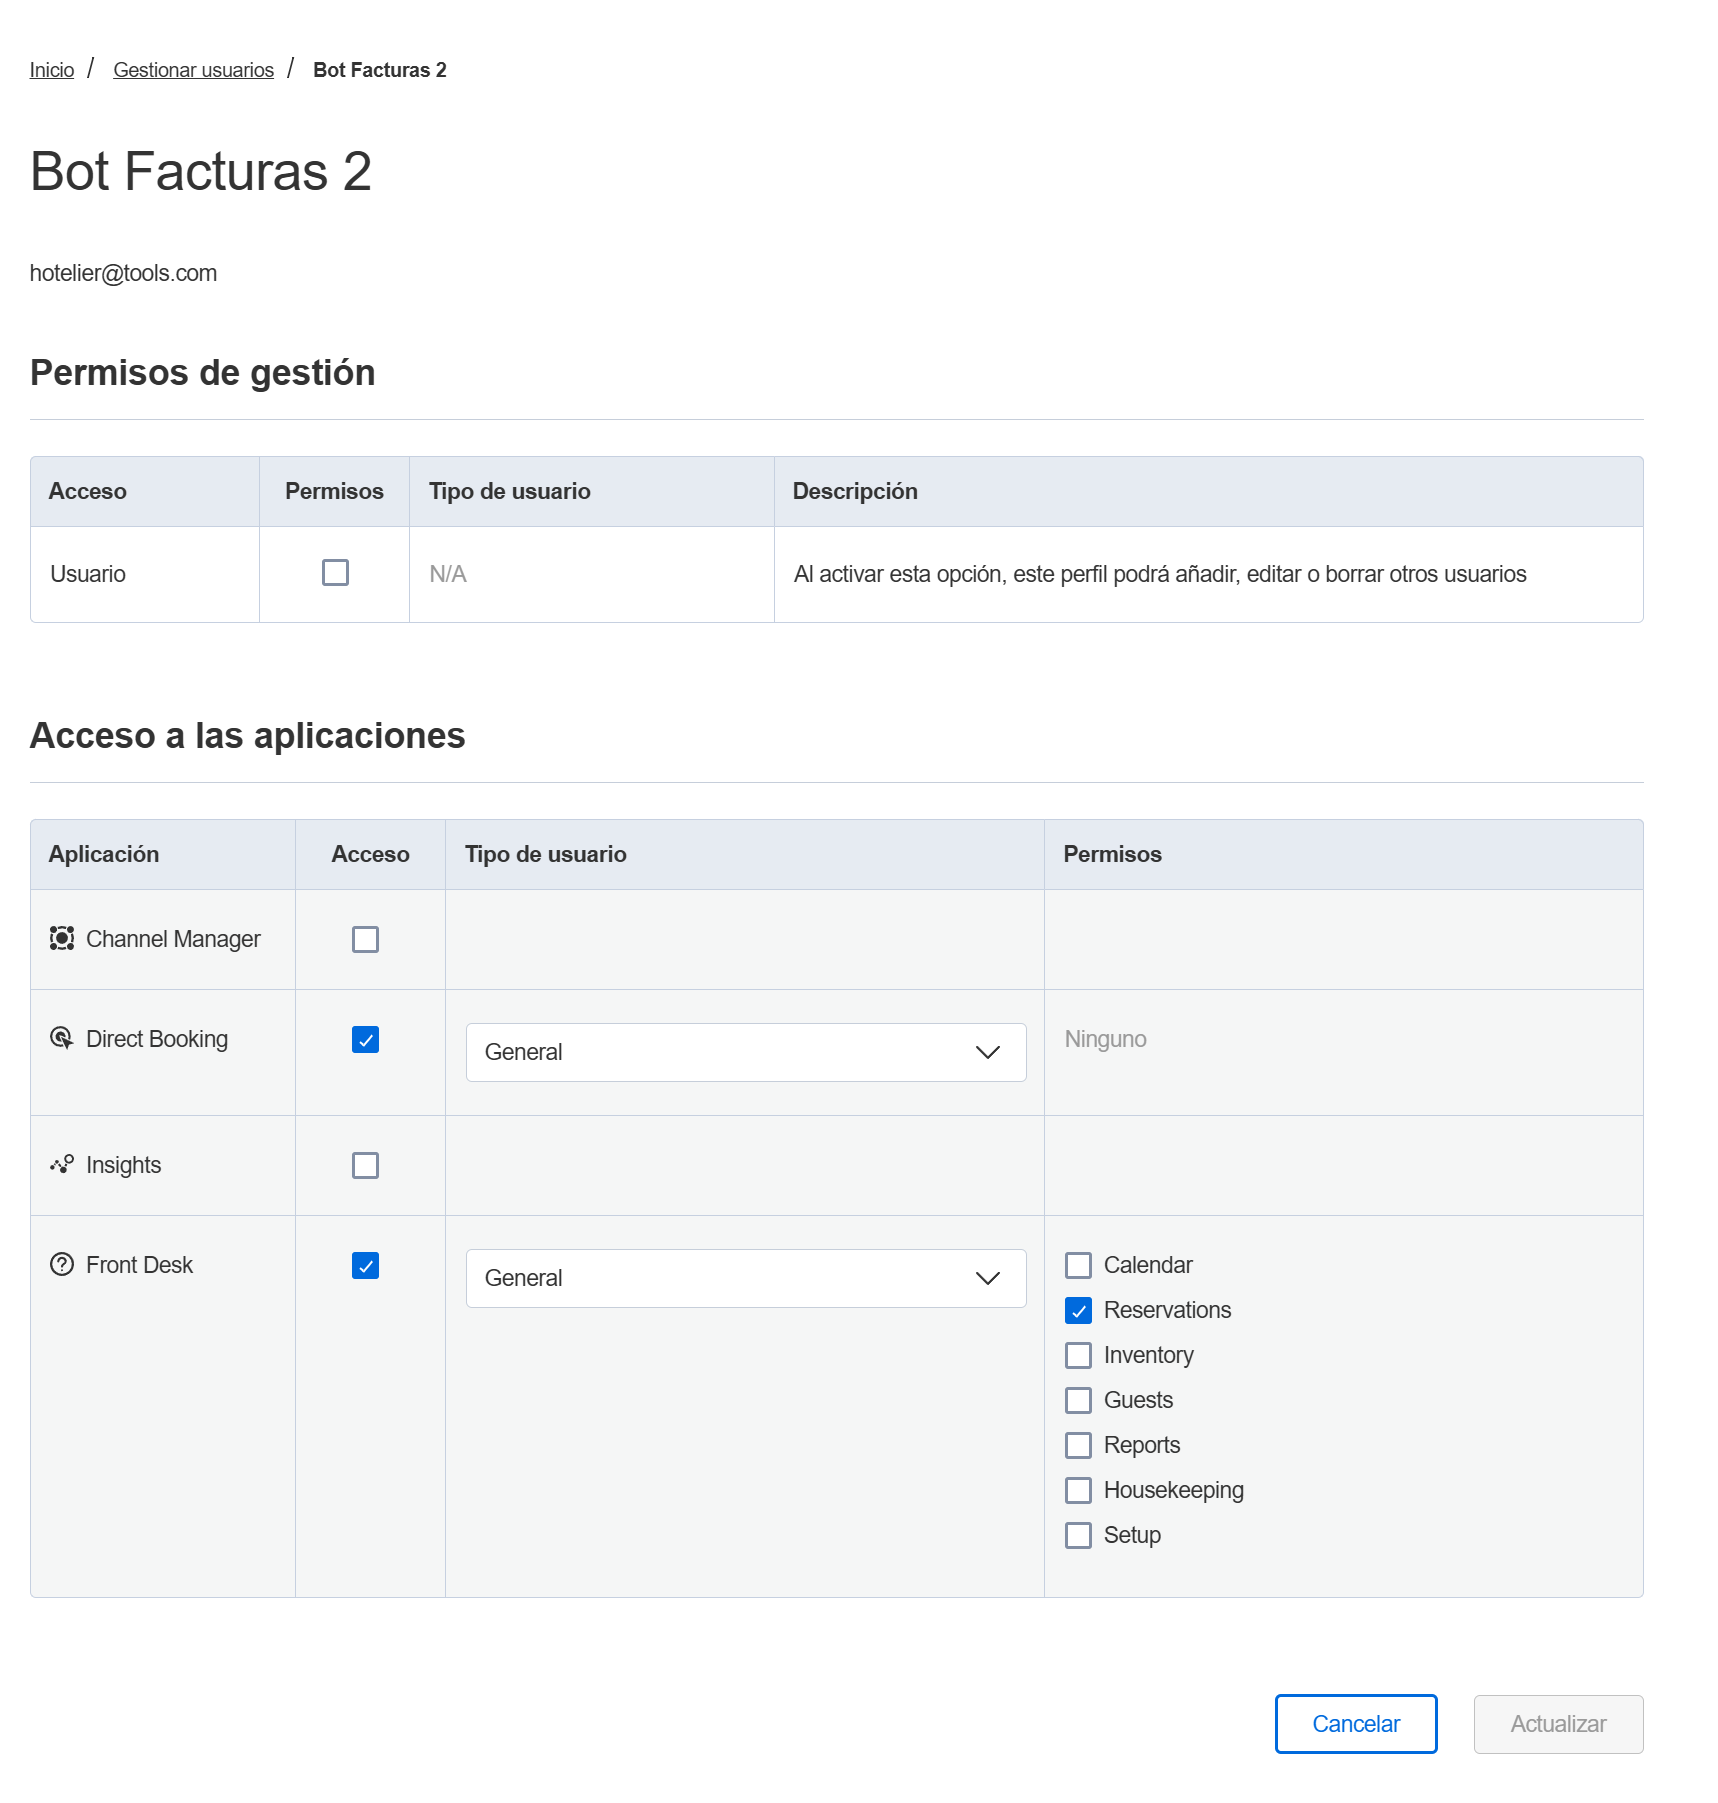
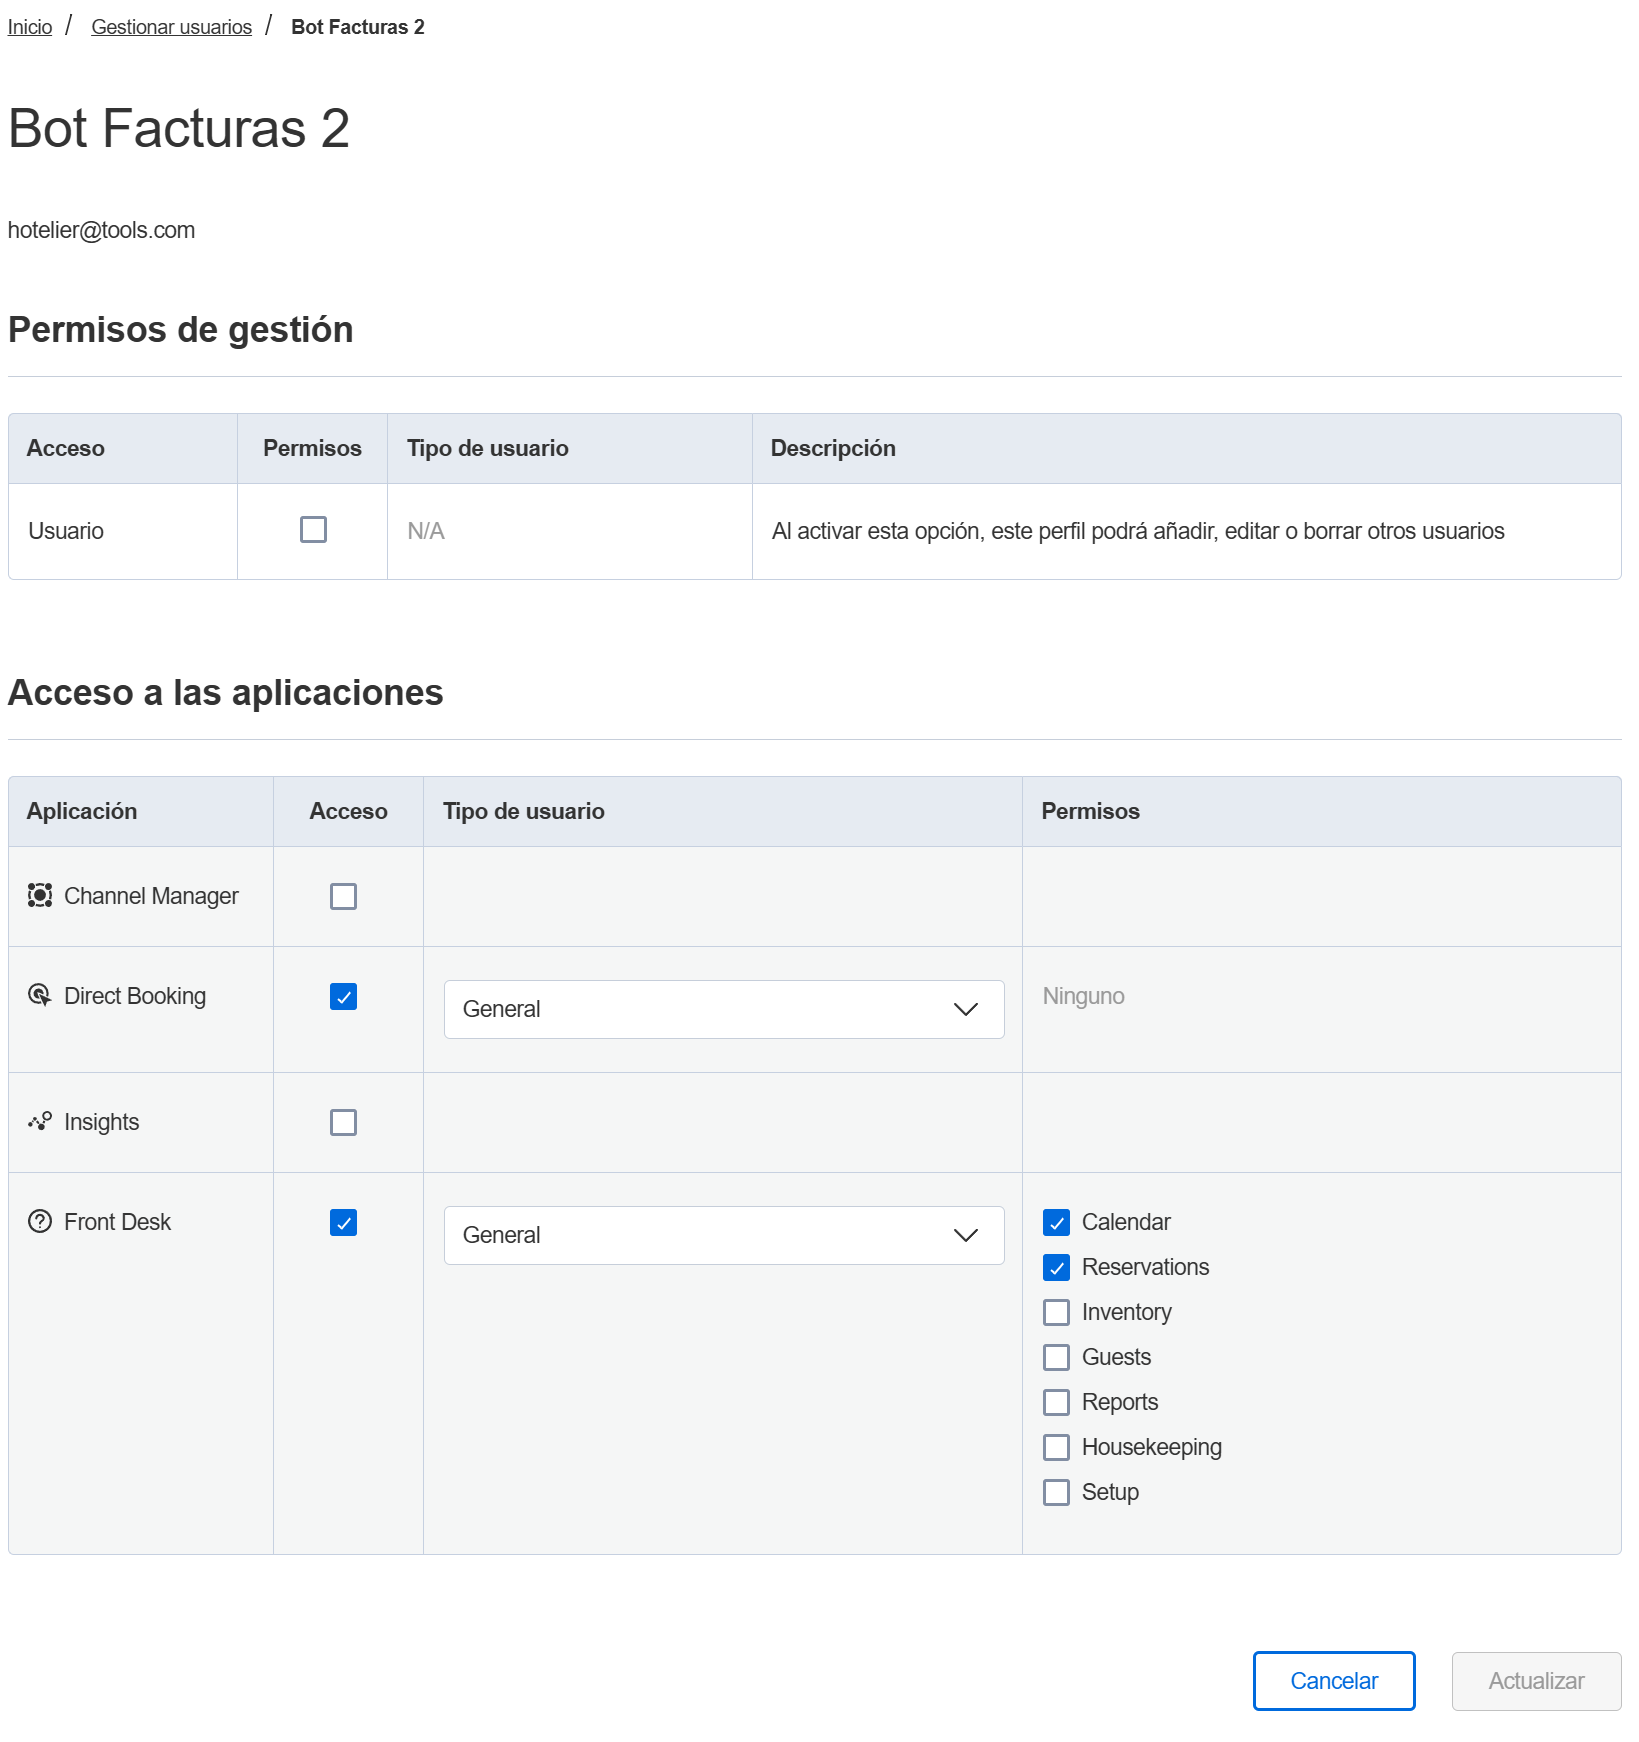
fix: permission for Hotelier Tools dashboard access

diff --git a/pages/tools/bot/[slug].vue b/pages/tools/bot/[slug].vue
@@ -116,7 +116,7 @@
 const route = useRoute()
 const slug = route.params.slug as string
 const localePath = useLocalePath()
-const { locale } = useI18n()
+const { locale, t } = useI18n()
 
 const { data: doc, refresh } = await useAsyncData(
   () => `bot-script-${route.params.slug}-${locale.value}`,